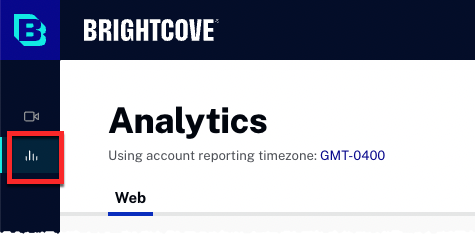
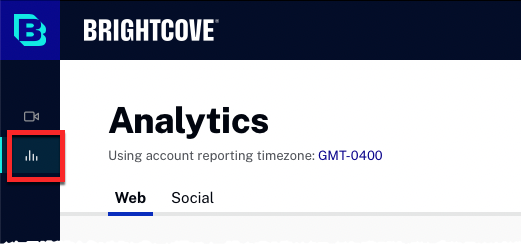
reorganizing analytics docs

diff --git a/_site/analytics/reviewing-social-analytics.html b/_site/analytics/reviewing-social-analytics.html
@@ -5,9 +5,9 @@
   <meta charset="utf-8">
   <meta name="robots" content="noindex,nofollow"> 
   <meta name="viewport" content="width=device-width, initial-scale=1, shrink-to-fit=no">
-  <meta name="description" content="In this topic you will learn how to embed a video on a webpage.">
+  <meta name="description" content="In this topic you will learn how to monitor the performance of your videos using the Analytics page.">
   
-  <title>Embedding a Video on a Webpage</title>
+  <title>Reviewing Social Analytics</title>
   <link rel="apple-touch-icon" sizes="180x180" href="/apple-touch-icon.png">
   <link rel="icon" type="image/png" sizes="32x32" href="/favicon-32x32.png">
   <link rel="icon" type="image/png" sizes="16x16" href="/favicon-16x16.png">
@@ -62,9 +62,9 @@ function doGTranslate(lang_pair) {if(lang_pair.value)lang_pair=lang_pair.value;i
       
       
       
-      <li class="breadcrumb-item"><a href="/media/">Managing Videos</a></li>
+      <li class="breadcrumb-item"><a href="/analytics/">Reviewing Analytics</a></li>
       
-      <li class="breadcrumb-item active" aria-current="page">Embedding a Video on a Webpage</li>
+      <li class="breadcrumb-item active" aria-current="page">Reviewing Social Analytics</li>
     </ol>
   </nav>
 </header>
@@ -292,36 +292,57 @@ function doGTranslate(lang_pair) {if(lang_pair.value)lang_pair=lang_pair.value;i
 
 
 <article class="bcls-article">
-  <h1>Embedding a Video on a Webpage</h1>
-  <summary>In this topic you will learn how to embed a video on a webpage.</summary>
+  <h1>Reviewing Social Analytics</h1>
+  <summary>In this topic you will learn how to monitor the performance of your videos using the Analytics page.</summary>
   <section class="bcls-section">
-    <p>The <strong>Media</strong> page can be used to  generate the embed code that is needed to embed a video in a webpage.</p>
-    <p>To publish a video to a website, follow these steps.</p>
+    <p>Regardless of your specific goals for online video, understanding your audience is a key to developing a successful video strategy. The better you understand your viewers, the easier it is to create content that will engage them. </p>
+    <p>The Analytics page offers fast, close to real-time access to analytics data about your videos. Various views are available and can be used to get analytics about your videos. Using these views, you can generate up-to-date reports about video views, play rates and complettion rates  for your videos.</p>
+    <p>To view the Analytics page:</p>
     <ol class="bcls-tasklist-restart">
-      <li>In the primary  navigation, click <strong>Media</strong>.</li>
-      <li>To publish a single video to a website, do one of the following:
-        <ul>
-          <li>In card view, hover over a video card, click the action button (...) and then click <strong>Embed on website</strong></li>
-          <li>In list view, click the action menu (...) next to the video to publish and then click <strong>Embed on website</strong></li>
-          <li>Click on a video to open the video details page and click <span class="button-blue">Embed</span></li>
-        </ul>
-        <aside class="bcls-aside bcls-aside--information">Note: Videos that are deactivated cannot be published. For information, see <a href="https://studio.support.brightcove.com/get-started/basics/video-cloud-basics-activating-and-deactivating-video.html">Activating and Deactivating Videos</a>.</aside>
-        <figure class="bcls-figure"><img class="bcls-image--no-border" alt="" src="/assets/images/media/embed-web/publish-embed-dialog.png" /></figure>
+      <li>Login to Marketing Studio.</li>
+      <li>In the primary navigation, click <strong>Analytics</strong>.
+        <figure class="bcls-figure"> <img class="bcls-image--no-border" alt="analytics navigation" src="/assets/images/analytics/primary-nav-analytics.png" /></figure>
       </li>
-      <li>Select a player to use. Note that the preview will update to display the player that was selected.</li>
-      <li>(Optional) Click  <strong>Preview</strong>  to preview the video in another browser tab.</li>
-      <li>(Optional) Click  <strong>Get URL</strong>  to copy a link to the  video.</li>
-      <li>Select the type of publishing code to copy by clicking <strong>Standard</strong> or <strong>Advanced</strong>.
-        <ul>
-          <li><strong>iFrame  - Recommended for most cases.</strong> This type places the player inside an <code translate="No">&lt;iframe&gt;</code> tag.
-            <aside class="bcls-aside bcls-aside--information language-editable">Note: If the selected player has been configured with the <a href="https://studio.support.brightcove.com/campaign/general/creating-campaign-enabled-player.html">Campaign plugin</a>, the iFrame code will not be displayed as the JavaScript code must be used.</aside>
-          </li>
-          <li><strong>JavaScript</strong> - Allows the player to exist in the the HTML page directly, not in an iframe. This offers developers the benefits of ease of accessing the player and associated properties and events.</li>
-        </ul>
-        <p>For more information on the types of embed code, see <a href="https://studio.support.brightcove.com/publish/choosing-correct-embed-code.html">Choosing the Correct Embed&nbsp;Code</a>.</p>
-      </li>
-      <li>Copy the embed code. When finished, click <span class="button-blue">Done</span>.</li>
     </ol>
+  By default, the <strong>Web</strong> analytics will be displayed. Click Social to view the social analytics. For information on the Social analytics, see </section>
+  <section class="bcls-section">
+    <h2 id="timespan">Selecting a time span</h2>
+    <p>Use the <strong>DATE</strong> selector dropdown at the top of the page to specify the time period for the report. Note that when a single day is selected, the graphs will display by hour.</p>
+    <figure class="bcls-figure"> <img class="bcls-image--no-border" alt="date selector" src="/assets/images/analytics/date-selector.png" /></figure>
+    <div class="BCL-subsection">
+      <h3>Reporting time zone</h3>
+      <p>Data in the Analytics module is shown using the account's reporting time zone. The time zone is displayed at the top of the page.</p>
+      <figure class="bcls-figure"><img class="bcls-image--no-border" alt="time zone" src="/assets/images/analytics/reporting-timezone.png" /></figure>
+      <p>The reporting time zone is used to calculate day boundaries for reporting data. Changing the reporting time zone setting only affects data going forward, and changes are not applied retroactively. If you change this setting, you may see a flat spot or a spike in your data when looking at day boundaries where the change was applied. Updates to this setting may not take effect immediately, and analytics data may continue to refer to the old setting until the system processes the changes.</p>
+      <p>The reporting time zone is configured as part of the Video Cloud account settings. For information on changing the reporting time zone, see <a href="https://studio.support.brightcove.com/admin/managing-account-settings.html#account_settings">Managing Account Settings</a>.</p>
+    </div>
+  </section>
+  <section class="bcls-section">
+    <h2 id="search" class="BCL_conceptTitle">Viewing reports</h2>
+    <p>When the Analytics page is opened,  a graph showing total video views per day for the time period selected will be displayed.</p>
+    <figure class="bcls-figure"><img class="bcls-image--no-border" alt="Compare previous period" src="/assets/images/analytics/video-views-graph.png" /></figure>
+    <p>Detailed video analytics will appear below the graph:</p>
+    <ul>
+      <li><strong>Title</strong> - Video name</li>
+      <li><strong>Video Views</strong> - The number of times the video started playing, recorded when the stream is started (does not include rewind or replay)</li>
+      <li><strong>Viewed Minutes</strong> - Total viewed minutes</li>
+      <li><strong>Play Rate</strong> - The percentage of users that played the video after it was loaded</li>
+      <li><strong>Avg. % Watched</strong> - The average percent watched per video view (calculated by adding all the percentage watched divided by the number of video views)</li>
+      <li><strong>Avg. Time Watched</strong> - The average time watched per video view (calculated by adding all the time watched divided by the number of video views)</li>
+      <li><strong>Created Date</strong> - Date the video was uploaded</li>
+    </ul>
+    <p>
+      <aside class="bcls-aside bcls-aside--information">Note: For a complete list of all analytics terms and definitions, see the <a href="https://studio.support.brightcove.com/analytics/analytics-module-ui-glossary.html">Analytics Glossary</a>.</aside>
+    </p>
+    <figure class="bcls-figure">
+      <p><img class="bcls-image--no-border" alt="Compare previous period" src="/assets/images/analytics/report-details.png" /></p>
+</figure>
+  </section>
+  <section class="bcls-section">
+    <h2 id="compare">Compare to previous period</h2>
+    <p>Selecting the <strong>Compare to previous period</strong> checkbox will add an overlay dashed line graph representing the data for the previous period.</p>
+    <figure class="bcls-figure"><img class="bcls-image--no-border" alt="Compare previous period" src="/assets/images/analytics/compare-previous.png" /></figure>
+    <p>The previous period is based upon what is currently selected for the report date range. For example, if you select a date range of last 7 days, the previous period will be 2 weeks ago. When comparing trends over weeks, it is best to select date ranges that cover complete weeks. For example, if you select a date starting on a Monday, set the end date to a Sunday. If the start date is on a Friday, set the end date to a Thursday. You can also mouse over both the bars and dashed line to see the date and corresponding values.</p>
   </section>
 </article>
 

diff --git a/_site/analytics/reviewing-web-analytics.html b/_site/analytics/reviewing-web-analytics.html
@@ -5,9 +5,9 @@
   <meta charset="utf-8">
   <meta name="robots" content="noindex,nofollow"> 
   <meta name="viewport" content="width=device-width, initial-scale=1, shrink-to-fit=no">
-  <meta name="description" content="In this topic you will learn how to embed a video on a webpage.">
+  <meta name="description" content="In this topic you will learn how to monitor the performance of your videos using the Analytics page.">
   
-  <title>Embedding a Video on a Webpage</title>
+  <title>Reviewing Web Analytics</title>
   <link rel="apple-touch-icon" sizes="180x180" href="/apple-touch-icon.png">
   <link rel="icon" type="image/png" sizes="32x32" href="/favicon-32x32.png">
   <link rel="icon" type="image/png" sizes="16x16" href="/favicon-16x16.png">
@@ -62,9 +62,9 @@ function doGTranslate(lang_pair) {if(lang_pair.value)lang_pair=lang_pair.value;i
       
       
       
-      <li class="breadcrumb-item"><a href="/media/">Managing Videos</a></li>
+      <li class="breadcrumb-item"><a href="/analytics/">Reviewing Analytics</a></li>
       
-      <li class="breadcrumb-item active" aria-current="page">Embedding a Video on a Webpage</li>
+      <li class="breadcrumb-item active" aria-current="page">Reviewing Web Analytics</li>
     </ol>
   </nav>
 </header>
@@ -292,36 +292,57 @@ function doGTranslate(lang_pair) {if(lang_pair.value)lang_pair=lang_pair.value;i
 
 
 <article class="bcls-article">
-  <h1>Embedding a Video on a Webpage</h1>
-  <summary>In this topic you will learn how to embed a video on a webpage.</summary>
+  <h1>Reviewing Web Analytics</h1>
+  <summary>In this topic you will learn how to monitor the performance of your videos using the Analytics page.</summary>
   <section class="bcls-section">
-    <p>The <strong>Media</strong> page can be used to  generate the embed code that is needed to embed a video in a webpage.</p>
-    <p>To publish a video to a website, follow these steps.</p>
+    <p>Regardless of your specific goals for online video, understanding your audience is a key to developing a successful video strategy. The better you understand your viewers, the easier it is to create content that will engage them. </p>
+    <p>The Analytics page offers fast, close to real-time access to analytics data about your videos. Various views are available and can be used to get analytics about your videos. Using these views, you can generate up-to-date reports about video views, play rates and complettion rates  for your videos.</p>
+    <p>To view the Analytics page:</p>
     <ol class="bcls-tasklist-restart">
-      <li>In the primary  navigation, click <strong>Media</strong>.</li>
-      <li>To publish a single video to a website, do one of the following:
-        <ul>
-          <li>In card view, hover over a video card, click the action button (...) and then click <strong>Embed on website</strong></li>
-          <li>In list view, click the action menu (...) next to the video to publish and then click <strong>Embed on website</strong></li>
-          <li>Click on a video to open the video details page and click <span class="button-blue">Embed</span></li>
-        </ul>
-        <aside class="bcls-aside bcls-aside--information">Note: Videos that are deactivated cannot be published. For information, see <a href="https://studio.support.brightcove.com/get-started/basics/video-cloud-basics-activating-and-deactivating-video.html">Activating and Deactivating Videos</a>.</aside>
-        <figure class="bcls-figure"><img class="bcls-image--no-border" alt="" src="/assets/images/media/embed-web/publish-embed-dialog.png" /></figure>
+      <li>Login to Marketing Studio.</li>
+      <li>In the primary navigation, click <strong>Analytics</strong>.
+        <figure class="bcls-figure"> <img class="bcls-image--no-border" alt="analytics navigation" src="/assets/images/analytics/primary-nav-analytics.png" /></figure>
       </li>
-      <li>Select a player to use. Note that the preview will update to display the player that was selected.</li>
-      <li>(Optional) Click  <strong>Preview</strong>  to preview the video in another browser tab.</li>
-      <li>(Optional) Click  <strong>Get URL</strong>  to copy a link to the  video.</li>
-      <li>Select the type of publishing code to copy by clicking <strong>Standard</strong> or <strong>Advanced</strong>.
-        <ul>
-          <li><strong>iFrame  - Recommended for most cases.</strong> This type places the player inside an <code translate="No">&lt;iframe&gt;</code> tag.
-            <aside class="bcls-aside bcls-aside--information language-editable">Note: If the selected player has been configured with the <a href="https://studio.support.brightcove.com/campaign/general/creating-campaign-enabled-player.html">Campaign plugin</a>, the iFrame code will not be displayed as the JavaScript code must be used.</aside>
-          </li>
-          <li><strong>JavaScript</strong> - Allows the player to exist in the the HTML page directly, not in an iframe. This offers developers the benefits of ease of accessing the player and associated properties and events.</li>
-        </ul>
-        <p>For more information on the types of embed code, see <a href="https://studio.support.brightcove.com/publish/choosing-correct-embed-code.html">Choosing the Correct Embed&nbsp;Code</a>.</p>
-      </li>
-      <li>Copy the embed code. When finished, click <span class="button-blue">Done</span>.</li>
     </ol>
+  By default, the <strong>Web</strong> analytics will be displayed. Click Social to view the social analytics. For information on the Social analytics, see </section>
+  <section class="bcls-section">
+    <h2 id="timespan">Selecting a time span</h2>
+    <p>Use the <strong>DATE</strong> selector dropdown at the top of the page to specify the time period for the report. Note that when a single day is selected, the graphs will display by hour.</p>
+    <figure class="bcls-figure"> <img class="bcls-image--no-border" alt="date selector" src="/assets/images/analytics/date-selector.png" /></figure>
+    <div class="BCL-subsection">
+      <h3>Reporting time zone</h3>
+      <p>Data in the Analytics module is shown using the account's reporting time zone. The time zone is displayed at the top of the page.</p>
+      <figure class="bcls-figure"><img class="bcls-image--no-border" alt="time zone" src="/assets/images/analytics/reporting-timezone.png" /></figure>
+      <p>The reporting time zone is used to calculate day boundaries for reporting data. Changing the reporting time zone setting only affects data going forward, and changes are not applied retroactively. If you change this setting, you may see a flat spot or a spike in your data when looking at day boundaries where the change was applied. Updates to this setting may not take effect immediately, and analytics data may continue to refer to the old setting until the system processes the changes.</p>
+      <p>The reporting time zone is configured as part of the Video Cloud account settings. For information on changing the reporting time zone, see <a href="https://studio.support.brightcove.com/admin/managing-account-settings.html#account_settings">Managing Account Settings</a>.</p>
+    </div>
+  </section>
+  <section class="bcls-section">
+    <h2 id="search" class="BCL_conceptTitle">Viewing reports</h2>
+    <p>When the Analytics page is opened,  a graph showing total video views per day for the time period selected will be displayed.</p>
+    <figure class="bcls-figure"><img class="bcls-image--no-border" alt="Compare previous period" src="/assets/images/analytics/video-views-graph.png" /></figure>
+    <p>Detailed video analytics will appear below the graph:</p>
+    <ul>
+      <li><strong>Title</strong> - Video name</li>
+      <li><strong>Video Views</strong> - The number of times the video started playing, recorded when the stream is started (does not include rewind or replay)</li>
+      <li><strong>Viewed Minutes</strong> - Total viewed minutes</li>
+      <li><strong>Play Rate</strong> - The percentage of users that played the video after it was loaded</li>
+      <li><strong>Avg. % Watched</strong> - The average percent watched per video view (calculated by adding all the percentage watched divided by the number of video views)</li>
+      <li><strong>Avg. Time Watched</strong> - The average time watched per video view (calculated by adding all the time watched divided by the number of video views)</li>
+      <li><strong>Created Date</strong> - Date the video was uploaded</li>
+    </ul>
+    <p>
+      <aside class="bcls-aside bcls-aside--information">Note: For a complete list of all analytics terms and definitions, see the <a href="https://studio.support.brightcove.com/analytics/analytics-module-ui-glossary.html">Analytics Glossary</a>.</aside>
+    </p>
+    <figure class="bcls-figure">
+      <p><img class="bcls-image--no-border" alt="Compare previous period" src="/assets/images/analytics/report-details.png" /></p>
+</figure>
+  </section>
+  <section class="bcls-section">
+    <h2 id="compare">Compare to previous period</h2>
+    <p>Selecting the <strong>Compare to previous period</strong> checkbox will add an overlay dashed line graph representing the data for the previous period.</p>
+    <figure class="bcls-figure"><img class="bcls-image--no-border" alt="Compare previous period" src="/assets/images/analytics/compare-previous.png" /></figure>
+    <p>The previous period is based upon what is currently selected for the report date range. For example, if you select a date range of last 7 days, the previous period will be 2 weeks ago. When comparing trends over weeks, it is best to select date ranges that cover complete weeks. For example, if you select a date starting on a Monday, set the end date to a Sunday. If the start date is on a Friday, set the end date to a Thursday. You can also mouse over both the bars and dashed line to see the date and corresponding values.</p>
   </section>
 </article>
 

diff --git a/_site/analytics/reviewing-analytics.html b/_site/analytics/reviewing-analytics.html
@@ -7,7 +7,7 @@
   <meta name="viewport" content="width=device-width, initial-scale=1, shrink-to-fit=no">
   <meta name="description" content="In this topic you will learn how to monitor the performance of your videos using the Analytics page.">
   
-  <title>Reviewing Analytics</title>
+  <title>Reviewing Web Analytics</title>
   <link rel="apple-touch-icon" sizes="180x180" href="/apple-touch-icon.png">
   <link rel="icon" type="image/png" sizes="32x32" href="/favicon-32x32.png">
   <link rel="icon" type="image/png" sizes="16x16" href="/favicon-16x16.png">
@@ -64,7 +64,7 @@ function doGTranslate(lang_pair) {if(lang_pair.value)lang_pair=lang_pair.value;i
       
       <li class="breadcrumb-item"><a href="/analytics/">Reviewing Analytics</a></li>
       
-      <li class="breadcrumb-item active" aria-current="page">Reviewing Analytics</li>
+      <li class="breadcrumb-item active" aria-current="page">Reviewing Web Analytics</li>
     </ol>
   </nav>
 </header>
@@ -292,7 +292,7 @@ function doGTranslate(lang_pair) {if(lang_pair.value)lang_pair=lang_pair.value;i
 
 
 <article class="bcls-article">
-  <h1>Reviewing Analytics</h1>
+  <h1>Reviewing Web Analytics</h1>
   <summary>In this topic you will learn how to monitor the performance of your videos using the Analytics page.</summary>
   <section class="bcls-section">
     <p>Regardless of your specific goals for online video, understanding your audience is a key to developing a successful video strategy. The better you understand your viewers, the easier it is to create content that will engage them. </p>
@@ -304,7 +304,7 @@ function doGTranslate(lang_pair) {if(lang_pair.value)lang_pair=lang_pair.value;i
         <figure class="bcls-figure"> <img class="bcls-image--no-border" alt="analytics navigation" src="/assets/images/analytics/primary-nav-analytics.png" /></figure>
       </li>
     </ol>
-  </section>
+  By default, the <strong>Web</strong> analytics will be displayed. Click Social to view the social analytics. For information on the Social analytics, see </section>
   <section class="bcls-section">
     <h2 id="timespan">Selecting a time span</h2>
     <p>Use the <strong>DATE</strong> selector dropdown at the top of the page to specify the time period for the report. Note that when a single day is selected, the graphs will display by hour.</p>

diff --git a/analytics/reviewing-social-analytics.html b/analytics/reviewing-social-analytics.html
@@ -1,5 +1,5 @@
 ---
-title: Reviewing Web Analytics
+title: Reviewing Social Analytics
 description: In this topic you will learn how to monitor the performance of your videos using the Analytics page.
 parent: Reviewing Analytics
 layout: staging
